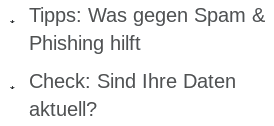
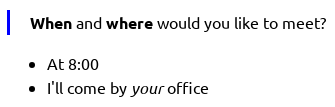
Settings: Mail: HTML: Change images

diff --git a/app/frontend/Settings/Mail/Send.svelte b/app/frontend/Settings/Mail/Send.svelte
@@ -35,13 +35,13 @@
         <input type="radio" value="html" bind:group={$formatSetting.value} />
         Send as HTML and Plaintext
       </label>
-      <img src={htmlImg} title="HTML" alt="HTML" width="274" height="126" />
+      <img src={htmlImg} title="HTML" alt="HTML" width="335" height="107" />
 
       <label class="radio">
         <input type="radio" value="plaintext" bind:group={$formatSetting.value} />
         Send as Plaintext only
       </label>
-      <img src={plaintextImg} title="Plaintext" alt="Plaintext" width="250" height="117" />
+      <img src={plaintextImg} title="Plaintext" alt="Plaintext" width="413" height="88" />
     </vbox>
   </HeaderGroupBox>
 </hbox>
@@ -80,7 +80,10 @@
   label {
     margin-left: 8px;
   }
+  .format img {
+    opacity: 80%;
+  }
   .quote img {
-    opacity: 60%;
+    opacity: 50%;
   }
 </style>